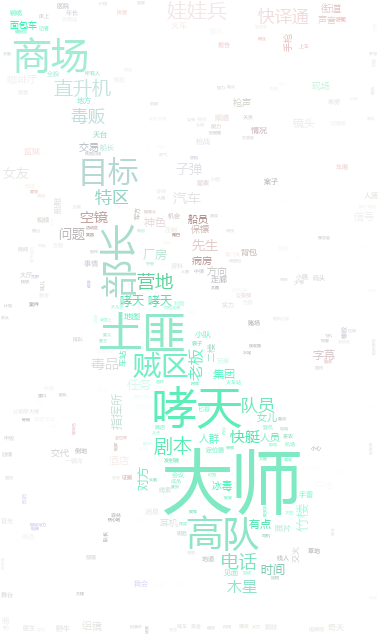
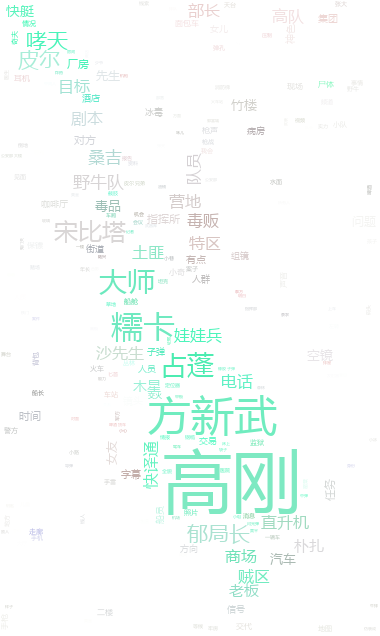
revise

diff --git a/word_segmentation/case2-movie/word_cloud.py b/word_segmentation/case2-movie/word_cloud.py
@@ -1,7 +1,7 @@
 # coding:utf-8
 '''
 interpreter:python2.7
-segment the words in play text and plot word cloud
+segment the words in a file and plot word cloud
 '''
 import codecs
 import jieba
@@ -13,7 +13,7 @@ from wordcloud import WordCloud, ImageColorGenerator
 
 # read the content
 def load_text(file_path):
-    "return string"
+    "return a string"
     with codecs.open(file_path, 'r', 'utf-8') as f:
         content = f.read()
         text = content.replace('\r\n', '')
@@ -24,7 +24,7 @@ def load_text(file_path):
 # load stopwords
 def load_stopwords(stopwords_path):
     "return a set"
-    stopwords = set(line.strip() for line in codecs.open('stopwords.txt', encoding='utf-8'))
+    stopwords = set(line.strip() for line in codecs.open('stopwords.txt', 'r', encoding='utf-8'))
     print stopwords
     return stopwords
 
@@ -43,10 +43,13 @@ def jieba_cut(text, stopwords, user_dict, add_dict=[]):
             jieba.add_word(item)
     jieba.load_userdict(user_dict)
     text_after_list = pseg.cut(text)
+    # for word, flag in text_after_list:  # ???:add these two lines wil cause error
+    #     print '%s %s' % (word, flag)
     for word, flag in text_after_list:
         # remove stopwords and meaningless ones and only keep noun because nouns often carries more meaning
-        if not word.strip() in stopwords and len(word.strip()) > 1 and flag == 'n':
+        if (not word.strip() in stopwords) and len(word.strip()) > 1 and (flag == 'n' or flag == 'x' or flag == 'nr'):
             word_list.append(word)
+            print word
     return word_list
 
 
@@ -76,9 +79,9 @@ def plot_wordcloud(pic_path, file_path, stopwords_path='stopwords.txt',
     plt.imshow(wc.recolor(color_func=image_colors))
     plt.axis("off")
     # in color of background pic
-    plt.figure()
-    plt.imshow(background_pic, cmap=plt.cm.gray)
-    plt.axis("off")
+    # plt.figure()
+    # plt.imshow(background_pic, cmap=plt.cm.gray)
+    # plt.axis("off")
     plt.show()
     # save figure
     wc.to_file('word_cloud.png')
